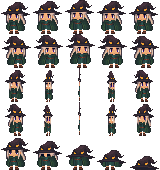
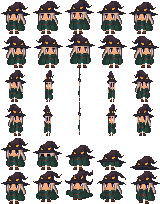
feat: add animation loading to BombBody and update player animations

diff --git a/src/entities/BombBody.cpp b/src/entities/BombBody.cpp
@@ -1,10 +1,12 @@
 #include "../../include/entities/BombBody.h"
 #include "../../include/Utils/GlobalAccess.h"
 #include "../../include/managers/EventManager.h"
+#include "../../include/managers/AnimationLoader.h"
 #include "../../include/core/Events.h"
 
 namespace Entities {
     void BombBody::update(float deltaTime) {
+        this->animationManager.update(deltaTime);
         this->timeToExplode -= deltaTime;
         if (this->timeToExplode <= 0.0f) {
             this->explode();
@@ -20,5 +22,16 @@ namespace Entities {
             .radius = this->explosionRadius,
             .damage = this->explosionDamage
         });
+    }
+
+    void BombBody::loadAnimations() {
+        this->setAnimated(true);
+        this->setTexture(textures()->Get("bomb"));
+        float frameDuration = this->timeToExplode / 4.0f;
+        Manager::AnimationLoader::loadNamedAnimations(this->texture, {
+            {"bomb", 0, 4},
+        }, this->animationManager, frameDuration, 32, 32);
+
+        this->animationManager.setAnimation("bomb");
     }
 }

diff --git a/src/scenes/GameplayScene.cpp b/src/scenes/GameplayScene.cpp
@@ -369,12 +369,6 @@ void GameplayScene::loadResources(SDL_Renderer* renderer){
 }
 
 void GameplayScene::loadStaticSprites(SDL_Renderer* renderer) {
-    textures()->Load(renderer, "player_b", "assets/player/personagem_B.png");
-    textures()->Load(renderer, "player_f", "assets/player/personagem_F.png");
-    textures()->Load(renderer, "player_l", "assets/player/personagem_L.png");
-    textures()->Load(renderer, "player_r", "assets/player/personagem_R.png");
-    textures()->Load(renderer, "player_with_item", "assets/player_with_item.png");
-
     textures()->Load(renderer, "attack", "assets/attack.png");
     textures()->Load(renderer, "attack_destroy", "assets/attack_fade.png");
 

diff --git a/include/entities/BombBody.h b/include/entities/BombBody.h
@@ -25,10 +25,14 @@ namespace Entities
        : Body(rect, collision, visible),
          timeToExplode(time),
          explosionRadius(radius),
-         explosionDamage(damage) {}
+         explosionDamage(damage) {
+            this->loadAnimations();
+        }
 
         virtual void update(float deltaTime) override;
         void explode();
+
+        void loadAnimations() override;
         
 		#pragma region Getters
         float getTimeToExplode() const { return this->timeToExplode; }

diff --git a/src/entities/PlayerBody.cpp b/src/entities/PlayerBody.cpp
@@ -153,8 +153,8 @@ namespace Entities
         this->is_animated = true;
 
         Manager::AnimationLoader::loadNamedAnimations(texture, {
-            {"walk",   0, 4},
-            {"attack", 0, 4, false},
+            {"walk",   5, 4},
+            {"attack", 0, 5, false},
             {"death",  4, 5, false},
             {"walk-r", 1, 5, true},
         }, this->animationManager, 0.15f, 32, 34);
